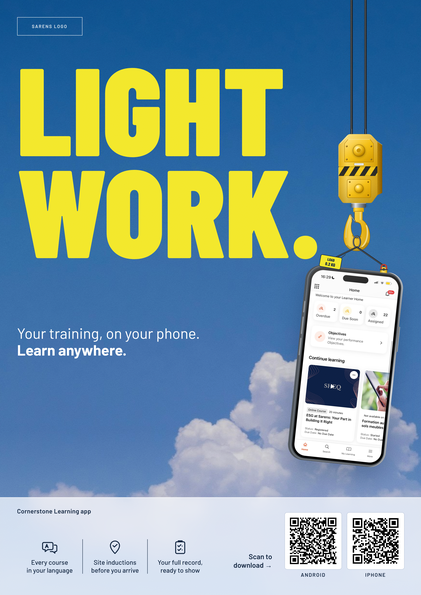
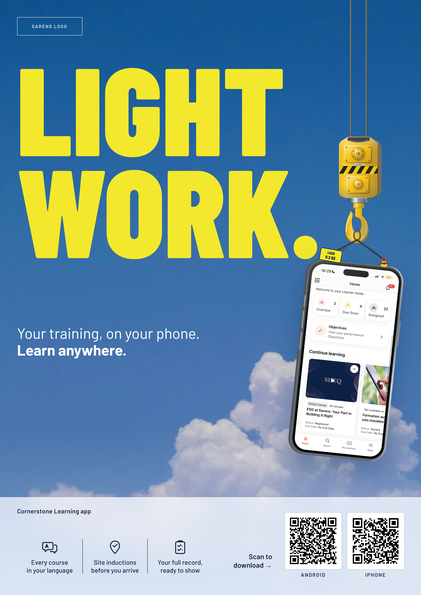
Redraw hook block for photo skies (hook3)
Warm key light with cool sky fill, bevelled edges, sheave slot with
reeved wire rope, worn paint, vertical grime, bare-steel saddle and
SWL plate. Hoist rope now drawn with the same strand lay.

Claude-Session: https://claude.ai/code/session_01X2Rbh1qXJbUgouSSLpvcgM

Changed region(s): [[0.6793, 0.0, 0.9572, 0.7866]]

diff --git a/poster-round2/poster.js b/poster-round2/poster.js
@@ -1,7 +1,7 @@
 // Builds a round-2b poster from COPY (text) and L (layout). All sizes in mm.
-const HOOK2={w:130,h:300,ropes:[46,78],seat:[58,250]};
+const HOOK2={src:'img/hook3.svg',w:145,h:300,rc:74,ropes:[54,94],seat:[70,263],ropeEnd:30};
 function placeHook2(el,ropeCx,top,w){
-  const s=w/HOOK2.w, x=ropeCx-62*s;
+  const s=w/HOOK2.w, x=ropeCx-HOOK2.rc*s;
   el.style.cssText+=`position:absolute;left:${x}mm;top:${top}mm;width:${w}mm;z-index:${L.hookZ||4}`;
   return {ropes:HOOK2.ropes.map(r=>x+r*s), ropeTop:top, throat:[x+HOOK2.seat[0]*s, top+HOOK2.seat[1]*s], s};
 }
@@ -18,7 +18,7 @@ function build(){
     <div class="logo" data-copy="logo" style="z-index:7"></div>
     <h1 class="headline" data-copy="headline" style="z-index:5"></h1>
     <div class="payoff" data-copy="payoff"></div>
-    <img id="hook" src="img/hook2.svg" alt="">
+    <img id="hook" src="${HOOK2.src}" alt="">
     <div class="phone" id="phone" style="z-index:${L.phoneZ||6}"></div>
     <svg class="layer" id="rig" viewBox="0 0 303 426" style="z-index:${(L.phoneZ||6)+1}"></svg>
     <div class="band ${L.band||''}"><div class="appname" data-copy="appname"></div><div class="scan" data-copy="scan"></div>
@@ -42,7 +42,13 @@ function build(){
     const ph={w:L.phone.w,h:L.phone.h,rot:L.phone.rot,y:H.throat[1]+(L.phone.drop||24)};
     ph.x=H.throat[0]-ph.w/2;
     buildPhone(document.getElementById('phone'),ph,'img/app-home.jpg');
-    rig(document.getElementById('rig'),H,document.getElementById('phone'),
-        Object.assign({tag:COPY.tag,ropeLayer:document.getElementById('ropes'),ropeW:L.ropeW||1.7,slingW:L.slingW||1.1},L.rigOpts||{}));
+    // hoist rope from the top edge into the block, drawn with the same strand lay as the hook drawing
+    const R=document.getElementById('ropes'), rw=5*H.s;
+    R.innerHTML=`<defs><pattern id="lay" width="${3*H.s}" height="${3*H.s}" patternUnits="userSpaceOnUse" patternTransform="rotate(-62)">
+      <rect width="${3*H.s}" height="${3*H.s}" fill="#30353a"/><rect width="${1.3*H.s}" height="${3*H.s}" fill="#8e979f"/><rect x="${.2*H.s}" width="${.45*H.s}" height="${3*H.s}" fill="#d2d8dd"/></pattern>
+      <linearGradient id="rsh" x1="0" x2="1"><stop offset="0" stop-color="#000" stop-opacity=".45"/><stop offset=".35" stop-color="#fff" stop-opacity=".12"/><stop offset=".7" stop-color="#000" stop-opacity=".1"/><stop offset="1" stop-color="#000" stop-opacity=".55"/></linearGradient></defs>`+
+      H.ropes.map(x=>`<rect x="${x-rw/2}" y="-5" width="${rw}" height="${H.ropeTop+HOOK2.ropeEnd*H.s+5}" fill="url(#lay)"/><rect x="${x-rw/2}" y="-5" width="${rw}" height="${H.ropeTop+HOOK2.ropeEnd*H.s+5}" fill="url(#rsh)"/>`).join('');
+    rig(document.getElementById('rig'),Object.assign({},H,{ropes:[]}),document.getElementById('phone'),
+        Object.assign({tag:COPY.tag,slingW:L.slingW||1.1},L.rigOpts||{}));
   };
 }
